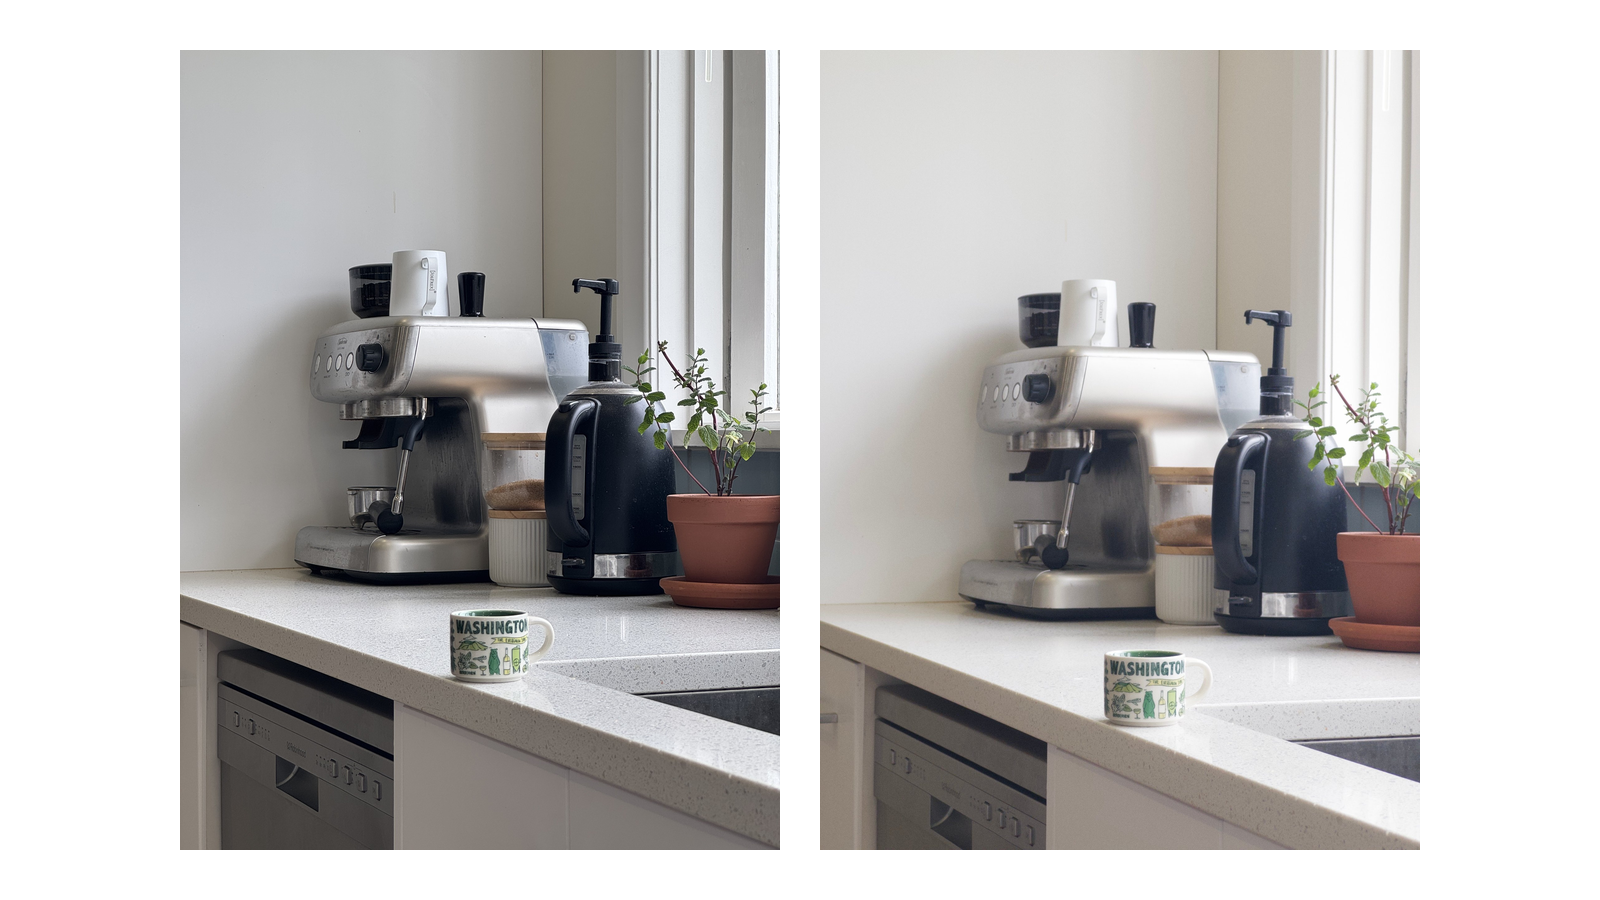
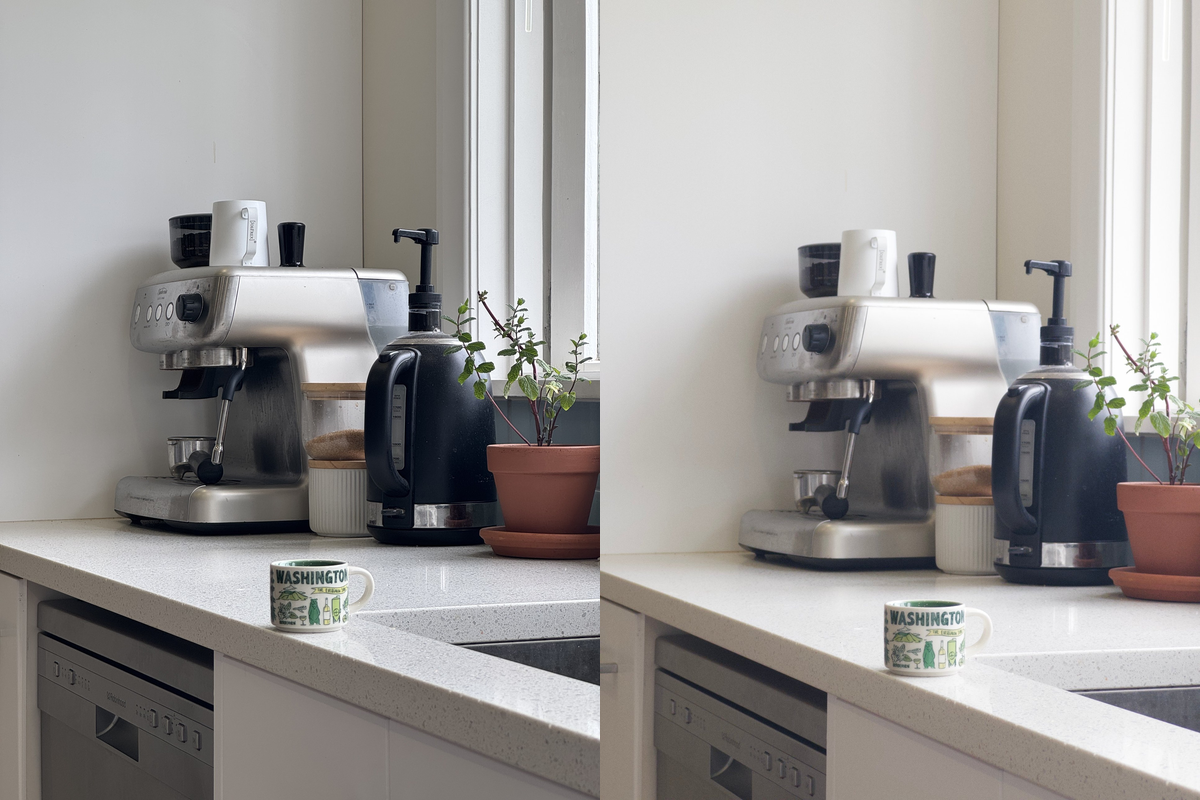
Render blog images at natural size when no aspectRatio is set
Drop the 16:9 default so images keep their own shape, with aspectRatio as
an optional override. Crop the Glint composites to their content (and
remove the photo pair's gap) so they no longer rely on cover-cropping.

Claude-Session: https://claude.ai/code/session_01R9SXnrSyeTvFLHrW7kQhiF

diff --git a/src/app/blog/[slug]/mdx-components.tsx b/src/app/blog/[slug]/mdx-components.tsx
@@ -35,7 +35,7 @@ const MdxImageCaption: React.FunctionComponent<{
   fullwidth?: boolean
   aspectRatio?: string
   maxWidth?: string
-}> = ({ image, altText, caption, emphasized, fullwidth, aspectRatio = '16 / 9', maxWidth }) => {
+}> = ({ image, altText, caption, emphasized, fullwidth, aspectRatio, maxWidth }) => {
   const resolved = resolveImagePath(image)
   if (!resolved) return null
   return (
@@ -49,9 +49,20 @@ const MdxImageCaption: React.FunctionComponent<{
           <img src={resolved} alt={altText} />
         ) : (
           <div style={maxWidth ? { maxWidth, margin: '0 auto' } : undefined}>
-            <FillImageBox $aspectRatio={aspectRatio}>
-              <Image src={resolved} alt={altText ?? ''} fill style={{ objectFit: 'cover' }} />
-            </FillImageBox>
+            {aspectRatio ? (
+              <FillImageBox $aspectRatio={aspectRatio}>
+                <Image src={resolved} alt={altText ?? ''} fill style={{ objectFit: 'cover' }} />
+              </FillImageBox>
+            ) : (
+              <Image
+                src={resolved}
+                alt={altText ?? ''}
+                width={0}
+                height={0}
+                sizes='100vw'
+                style={{ width: '100%', height: 'auto', display: 'block' }}
+              />
+            )}
           </div>
         )
       }
